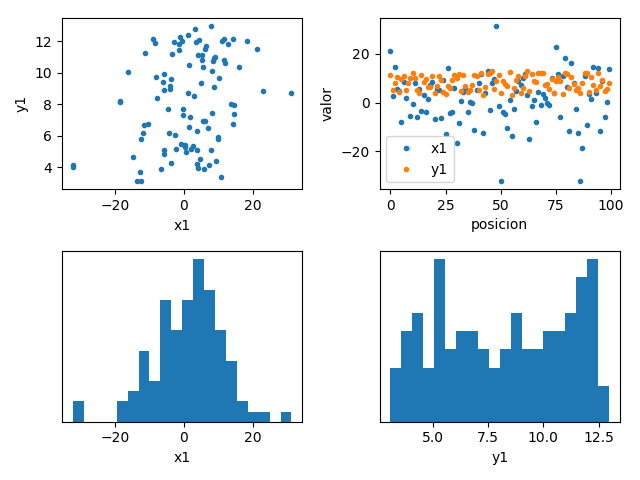
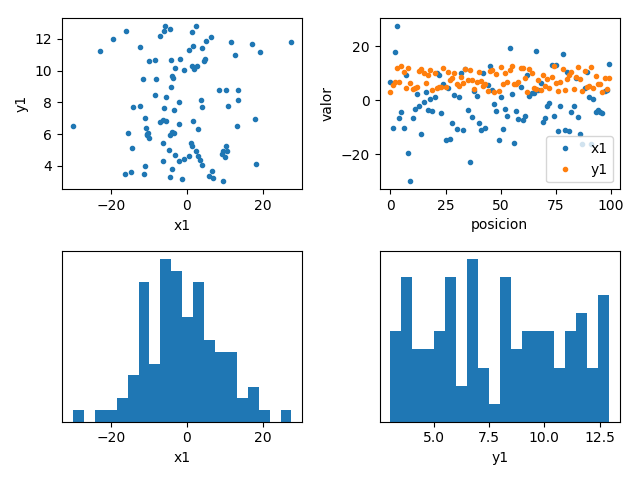
fix

diff --git a/_save/convertir_a_python.py b/_save/convertir_a_python.py
@@ -15,6 +15,8 @@ from glob import glob
 
 #%%
 
+destino='/home/lolo/Dropbox/Doctorado/github/python-para-fisicos/tutoriales/instructivo_labo2/'
+
 os.chdir('/home/lolo/Dropbox/Doctorado/github/python-para-fisicos_pages/tuto/labo2')
 
 for md in glob('*.md'):
@@ -36,5 +38,5 @@ for md in glob('*.md'):
         if cargar:
             bloque[-1] += linea + '\n'
     
-    with open( md[:-3]+'.py' ,'w') as output:
+    with open( destino + md[:-3]+'.py' ,'w') as output:
         output.write( '\n\n\n'.join( bloque )  )

diff --git a/tuto/labo2/02_intro_analisis.md b/tuto/labo2/02_intro_analisis.md
@@ -139,31 +139,31 @@ plt.tight_layout()
 Ahora supongamos que tenemos un experimento en el que medimos varias veces dos variables al mismo tiempo; por ejemplo x e y. Cada una de estas variables muestran un comportamiento aleatorio, aunque pueden mostrar cierta tendencia en su evolución temporal (Ej: x tiende a crecer con el tiempo). Nos interesa saber si comparten información sobre el sistema o si son variables que evolucionan de forma independiente. Si para cada medición $i$ obtuvimos valores $x_i$ y $y_i$ podemos graficar uno respecto del otro. Estos son posibles ejemplos de resultados:
 
 ```python
-x = random.randn(100)*10
-y = (random.rand(100)-0.5)*10+8
+x1 = random.randn(100)*10
+y1 = (random.rand(100)-0.5)*10+8
 
 plt.subplot(2,2,1)
-plt.plot(x,y,'.')
-plt.ylabel('y')
-plt.xlabel('x')
+plt.plot(x1,y1,'.')
+plt.ylabel('y1')
+plt.xlabel('x1')
 
 plt.subplot(2,2,2)
-plt.plot(x,'.', label='x')
-plt.plot(y,'.', label='y')
+plt.plot(x1,'.', label='x1')
+plt.plot(y1,'.', label='y1')
 plt.ylabel('valor')
 plt.xlabel('posicion')
 plt.legend()
 
 
 plt.subplot(2,2,3)
-plt.hist(x,20)
+plt.hist(x1,20)
 plt.yticks([])
-plt.xlabel('x')
+plt.xlabel('x1')
 
 plt.subplot(2,2,4)
 plt.hist(y,20)
 plt.yticks([])
-plt.xlabel('y')
+plt.xlabel('y1')
 
 plt.tight_layout()
 # plt.savefig('02_04_cov.png')
@@ -175,34 +175,33 @@ plt.tight_layout()
 En el ejemplo no se puede apreciar una dependencia clara de una variable sobre otra. Veamos otro ejemplo:
 
 ```python
-#%%
 random.seed(1024)
 t = linspace(0,5*pi,100)
-x = (sin(t)+1)+t/2 + random.randn(100)/2
-y = ((sin(t)+1)+t/2)*2.1+3 + random.randn(100)/2
+x2 = (sin(t)+1)+t/2 + random.randn(100)/2
+y2 = ((sin(t)+1)+t/2)*2.1+3 + random.randn(100)/2
 
 plt.subplot(2,2,1)
-plt.plot(x,y,'.')
-plt.ylabel('y')
-plt.xlabel('x')
+plt.plot(x2,y2,'.')
+plt.ylabel('y2')
+plt.xlabel('x2')
 
 plt.subplot(2,2,2)
-plt.plot(x,'.', label='x')
-plt.plot(y,'.', label='y')
+plt.plot(x2,'.', label='x2')
+plt.plot(y2,'.', label='y2')
 plt.ylabel('valor')
 plt.xlabel('posicion')
 plt.legend()
 
 
 plt.subplot(2,2,3)
-plt.hist(x,20)
+plt.hist(x2,20)
 plt.yticks([])
-plt.xlabel('x')
+plt.xlabel('x2')
 
 plt.subplot(2,2,4)
-plt.hist(y,20)
+plt.hist(y2,20)
 plt.yticks([])
-plt.xlabel('y')
+plt.xlabel('y2')
 
 plt.tight_layout()
 # plt.savefig('02_05_cov.png')
@@ -372,8 +371,7 @@ R2   = R**2
 
 
 ```python
-#%%  Ejemplo de ajuste lineal simple
-
+# Ejemplo de ajuste lineal simple
 
 from scipy.optimize import curve_fit
 
@@ -390,7 +388,7 @@ popt, pcov = curve_fit(modelo, x2, y2, p0=parametros_iniciales)
 # parámetros óptimos hallados. El segundo (pcov) es la matriz de
 # covarianza de los parámetros hallados.
 
-x_modelo  = np.linspace(0, 10, 1000)
+x_modelo  = linspace(0, 10, 1000)
 
 plt.figure()
 plt.plot( x2,                 y2,  'o', label='datos')
@@ -408,7 +406,7 @@ print(popt)
 
 # De la matris de covarinza podemos obtener los valores de desviacion estandar
 # de los parametros hallados
-pstd = np.sqrt(np.diag(pcov))
+pstd = sqrt(diag(pcov))
 
 nombres_de_param=['A','B']
 print('Parámetros hallados:')
@@ -419,6 +417,8 @@ for i,param in enumerate(popt):
 #
 # A = 1.994 ± 0.049
 # B = 3.392 ± 0.280
+
+# plt.savefig('02_08_ajuste_lineal.png')
 ```
 
 ![grafico](02_08_ajuste_lineal.png "grafico")
